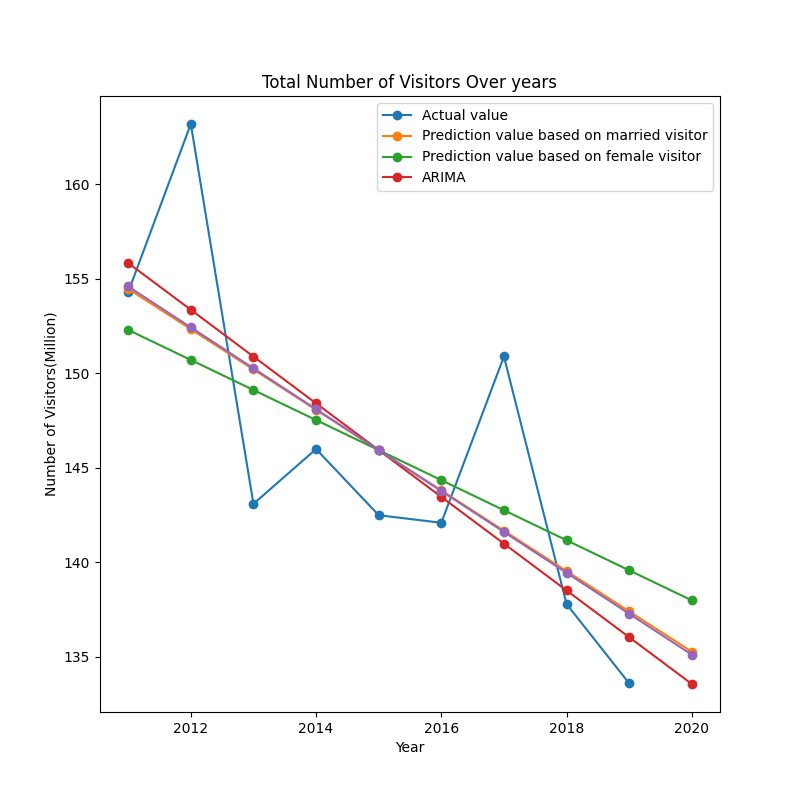
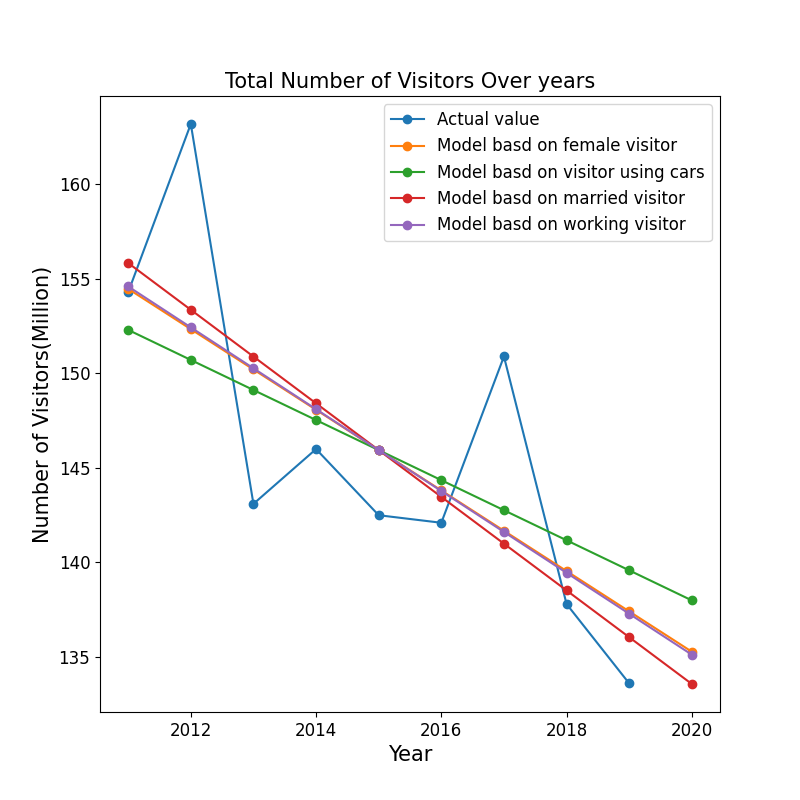
Draw all four fitted lines and make labels larger.

diff --git a/transferModel.py b/transferModel.py
@@ -34,10 +34,13 @@ for i in list:
     kf=ss.chisquare(total['Count'].to_list(), f_exp=predictions[:-1].flatten())
     print(kf)
     print(rfd.meanAbsoluteError(total['Count'].to_list(), predictions[:-1].flatten()))
-plt.legend(['Actual value', 'Prediction value based on married visitor', 'Prediction value based on female visitor', 'ARIMA'])
-plt.xlabel('Year')
-plt.ylabel('Number of Visitors(Million)')
-plt.title('Total Number of Visitors Over years')
+plt.legend(['Actual value', 'Model basd on female visitor', 'Model basd on visitor using cars',
+            'Model basd on married visitor', 'Model basd on working visitor'], fontsize=12)
+plt.xlabel('Year', fontsize=15)
+plt.ylabel('Number of Visitors(Million)', fontsize=15)
+plt.title('Total Number of Visitors Over years', fontsize=15)
+plt.xticks(fontsize=12)
+plt.yticks(fontsize=12)
 plt.savefig('figures/predictionTransferModel.png')
 plt.show()
 #print(ss.chisquare(total['Count'].to_list()[3:], f_exp=ARIMA))
